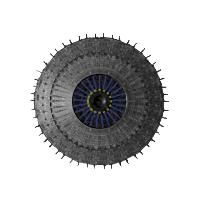
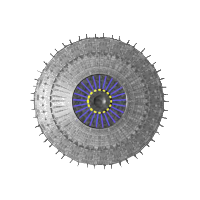
Xixx

diff --git a/source/public/client/model/weapon/antimatter.js b/source/public/client/model/weapon/antimatter.js
@@ -46,3 +46,10 @@ var AntiprotonDefender = function AntiprotonDefender(json, ship) {
 };
 AntiprotonDefender.prototype = Object.create(AntimatterWeapon.prototype);
 AntiprotonDefender.prototype.constructor = AntiprotonDefender;
+
+
+var AntimatterTorpedo = function AntimatterTorpedo(json, ship) {
+    Antimatter.call(this, json, ship);
+};
+AntimatterTorpedo.prototype = Object.create(AntimatterWeapon.prototype);
+AntimatterTorpedo.prototype.constructor = AntimatterTorpedo;

diff --git a/source/server/model/weapons/antimatter.php b/source/server/model/weapons/antimatter.php
@@ -92,7 +92,7 @@
 
 
 
-	class AntiprotonGun extends AntimatterWeapon{        
+class AntiprotonGun extends AntimatterWeapon{        
         public $name = "AntiprotonGun";
         public $displayName = "Antiproton Gun";
 		public $iconPath = "AntiprotonGun.png";
@@ -104,7 +104,7 @@
         public $animationExplosionScale = 0.20;
         public $trailLength = 5;
 		*/
-        public $priority = 5; //that's Standard Heavy hit!
+        public $priority = 5;
 
         public $intercept = 2;
         public $loadingtime = 1;
@@ -149,7 +149,7 @@
 } //end of AntiprotonGun
 
 	
-	class AntimatterCannon extends AntimatterWeapon{        
+class AntimatterCannon extends AntimatterWeapon{        
         public $name = "AntimatterCannon";
         public $displayName = "Antimatter Cannon";
 		public $iconPath = "AntimatterCannon.png";
@@ -208,7 +208,7 @@
 } //end of AntimatterCannon
 	
 	
-	class AntiprotonDefender extends AntimatterWeapon{        
+class AntiprotonDefender extends AntimatterWeapon{        
         public $name = "AntiprotonDefender";
         public $displayName = "Antiproton Defender";
 		public $iconPath = "AntiprotonDefender.png";
@@ -262,5 +262,63 @@
         public function setMinDamage(){     $this->minDamage = 8;      }
         public function setMaxDamage(){     $this->maxDamage = 18;      }
 	
-} //end of AntiprotonDefender		
+} //end of AntiprotonDefender
+
+class AntimatterTorpedo extends AntimatterWeapon{        
+        public $name = "AntimatterTorpedo";
+        public $displayName = "Antimatter Torpedo";
+		public $iconPath = "AntimatterTorpedo.png";
+        public $trailColor = array(0, 184, 230);
+        public $animation = "torpedo";
+        public $animationColor = array(30, 170, 255);
+        public $animationExplosionScale = 0.25;
+        public $projectilespeed = 12;
+        public $animationWidth = 10;
+        public $trailLength = 10;
+        public $priority = 6;
+        
+        public $ballistic = true;
+        public $weaponClass = "Ballistic";         
+
+        public $loadingtime = 2;
+		
+		public $rangePenalty = 1; //-1/hex base penalty
+
+		public $rngNoPenalty = 25; //maximum range at which weapon suffers no penalty
+		public $rngNormalPenalty = 50;//maximum range at which weapon suffers regular penalty
+		public $maxX = 12; //maximum value of X
+		public $dmgEquation = 'X+8'; //to be able to automatically incorporate this into weapon description
+
+        public $fireControl = array(-2, 2, 4); // fighters, <mediums, <capitals 
+		
+		
+        public function setSystemDataWindow($turn){
+            parent::setSystemDataWindow($turn);
+			/*
+			if (!isset($this->data["Special"])) {
+				$this->data["Special"] = '';
+			}else{
+				$this->data["Special"] .= '<br>';
+			}
+			//...and NOW $this->data["Special"] may be extended by further text, if still needed
+			*/
+        }
+        
+        function __construct($armour, $maxhealth, $powerReq, $startArc, $endArc){
+			if ( $maxhealth == 0 ) $maxhealth = 6;
+            if ( $powerReq == 0 ) $powerReq = 7;            
+            parent::__construct($armour, $maxhealth, $powerReq, $startArc, $endArc);
+        }
+        
+       	public function getDamage($fireOrder){
+                $X = $this->getX($fireOrder);
+				$damage = $X + 8;
+				return $damage ;
+            }
+
+        public function setMinDamage(){     $this->minDamage = 8;      }
+        public function setMaxDamage(){     $this->maxDamage = 20;      }
+	
+} //end of AntimatterTorpedo
+		
 ?>

diff --git a/source/server/model/ships/vree/Xixx.php b/source/server/model/ships/vree/Xixx.php
@@ -1,0 +1,96 @@
+<?php
+class Xixx extends HeavyCombatVessel{
+
+	function __construct($id, $userid, $name,  $slot){
+		parent::__construct($id, $userid, $name,  $slot);
+
+		$this->pointCost = 650;
+		$this->faction = "Vree";
+		$this->phpclass = "Xixx";
+		$this->shipClass = "Xixx Torpedo Saucer";
+		$this->isd = 2251;
+
+
+		$this->shipSizeClass = 2; //Enormous is not implemented
+		$this->iniativebonus = 6; //no voluntary movement anyway
+		
+        $this->turncost = 0.66;
+        $this->turndelaycost = 0.5;
+        $this->accelcost = 2;
+        $this->rollcost = 3;
+        $this->pivotcost = 0;	
+        $this->gravitic = true;        	
+
+		$this->forwardDefense = 13;
+		$this->sideDefense = 13;
+
+		$this->imagePath = "img/ships/VreeVaarl.png";
+		$this->canvasSize = 200;
+
+		$this->addPrimarySystem(new Reactor(4, 20, 0, 0));
+		$this->addPrimarySystem(new Hangar(4, 1));
+		$this->addPrimarySystem(new CnC(4, 12, 0, 0));
+		$this->addPrimarySystem(new Scanner(4, 14, 9, 7));
+        $this->addPrimarySystem(new Engine(4, 11, 0, 7, 2));
+		$this->addPrimarySystem(new AntiprotonDefender(3, 0, 0, 0, 360));
+		$this->addPrimarySystem(new AntiprotonDefender(3, 0, 0, 0, 360));
+		$this->addPrimarySystem(new AntiprotonDefender(3, 0, 0, 0, 360));				
+		$this->addPrimarySystem(new AntiprotonGun(3, 0, 0, 0, 360));		
+		$this->addPrimarySystem(new Thruster(3, 12, 0, 7, 3));
+		$this->addPrimarySystem(new Thruster(3, 12, 0, 7, 4));		
+
+        $this->addFrontSystem(new Thruster(4, 12 0, 7, 1));
+		$this->addFrontSystem(new AntimatterTorpedo(3, 0, 0, 240, 0));
+		$this->addFrontSystem(new AntimatterTorpedo(3, 0, 0, 300, 60)); 
+		$this->addFrontSystem(new AntimatterTorpedo(3, 0, 0, 300, 60)); 
+		$this->addFrontSystem(new AntimatterTorpedo(3, 0, 0, 0, 120)); 						        
+		
+        $this->addAftSystem(new Thruster(4, 12 0, 7, 2));
+		$this->addFrontSystem(new AntimatterTorpedo(3, 0, 0, 180, 300));
+		$this->addFrontSystem(new AntimatterTorpedo(3, 0, 0, 120, 240)); 
+		$this->addFrontSystem(new AntimatterTorpedo(3, 0, 0, 120, 240)); 
+		$this->addFrontSystem(new AntimatterTorpedo(3, 0, 0, 60, 180));         
+        
+	
+       
+        //0:primary, 1:front, 2:rear, 3:left, 4:right;
+        $this->addFrontSystem(new Structure( 3, 50));
+        $this->addAftSystem(new Structure( 4, 50));
+        $this->addPrimarySystem(new Structure( 4, 45));
+	    
+	//d20 hit chart
+        $this->hitChart = array(
+            0=> array(
+                    7 => "Structure",
+                    10 => "Thruster",
+                    11 => "Antiproton Gun",
+                    12 => "Antiproton Defender",
+                    14 => "Scanner",
+                    16 => "Engine",
+                    17 => "Hangar",
+                    19 => "Reactor",
+                    20 => "C&C",
+           		 ),
+            1=> array(
+                    4 => "Thruster",
+                    5 => "0:Antiproton Defender",
+                    6 => "0:Antiproton Gun"
+                    9 => "Antimatter Torpedo",
+                    18 => "Structure",
+                    20 => "Primary",
+           		 ),
+            2=> array(
+                    4 => "Thruster",
+                    5 => "0:Antiproton Defender",
+                    6 => "0:Antiproton Gun"
+                    9 => "Antimatter Torpedo",
+                    18 => "Structure",
+                    20 => "Primary",
+           		 ),
+
+           	);
+       		
+		}
+	}
+		
+?>		

diff --git a/source/server/model/ships/vree/Vaarl.php b/source/server/model/ships/vree/Vaarl.php
@@ -1,5 +1,5 @@
 <?php
-class Vaarl extends VreeHCV{
+class Vaarl extends HeavyCombatVessel{
 
 	function __construct($id, $userid, $name,  $slot){
 		parent::__construct($id, $userid, $name,  $slot);
@@ -59,9 +59,9 @@ class Vaarl extends VreeHCV{
 	//d20 hit chart
         $this->hitChart = array(
             0=> array(
-                    6 => "Structure",
-                    9 => "Thruster",
-                    11 => "Jumpe Engine",
+                    7 => "Structure",
+                    10 => "Thruster",
+                    11 => "Jump Engine",
                     12 => "Antimatter Cannon",
                     14 => "Scanner",
                     16 => "Engine",
@@ -73,14 +73,14 @@ class Vaarl extends VreeHCV{
                     4 => "Thruster",
                     5 => "0:Antimatter Cannon",
                     9 => "Antiproton Defender",
-                    17 => "Structure",
+                    18 => "Structure",
                     20 => "Primary",
            		 ),
             2=> array(
                     4 => "Thruster",
                     5 => "0:Antimatter Cannon",
                     9 => "Antiproton Defender",
-                    17 => "Structure",
+                    18 => "Structure",
                     20 => "Primary",
            		 ),
 

diff --git a/source/autoload.php b/source/autoload.php
@@ -1917,6 +1917,8 @@ spl_autoload_register(
 				'antiprotondefender' => '/server/model/weapons/antimatter.php',
 				'xill' => '/server/model/ships/vree/Xill.php',
 				'vaarl' => '/server/model/ships/vree/Vaarl.php',
+				'antimattertorpedo' => '/server/model/weapons/antimatter.php',
+				'xixx' => '/server/model/ships/vree/Xixx.php',
 				
 
 
